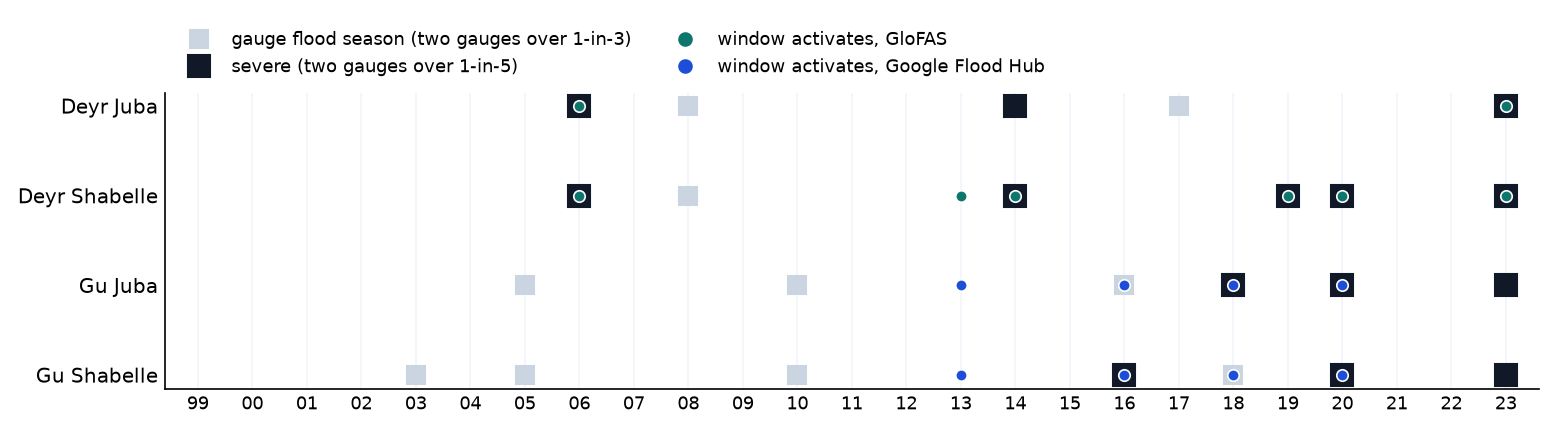
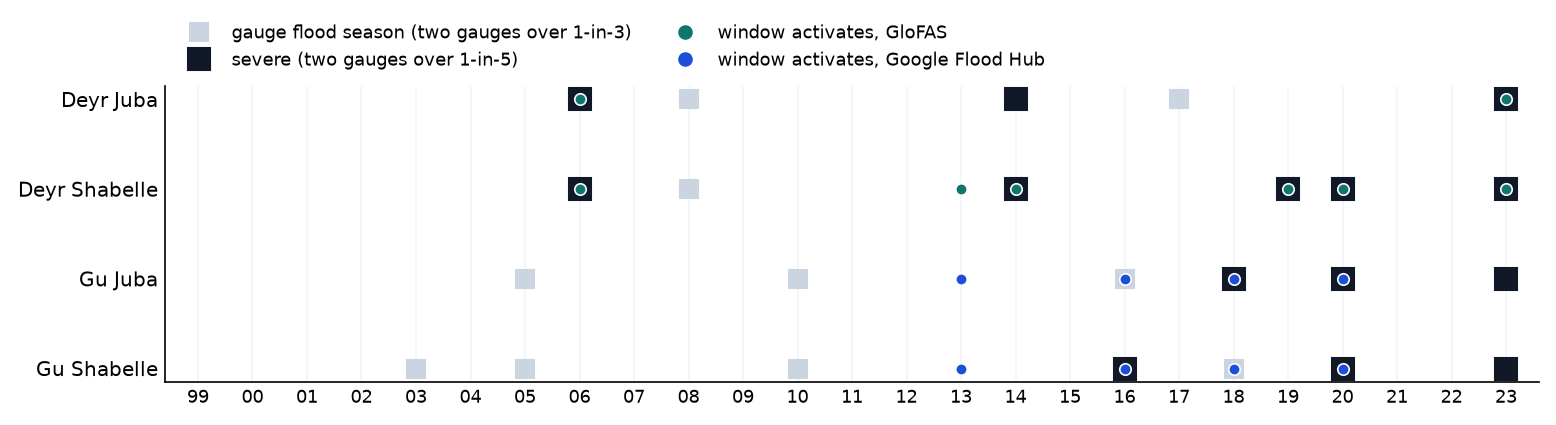
Summary page: even borders on the figures, more room around them
The agreement figure's legend was flush with the top edge; all three figures are now
saved with a tight bounding box and the same padding, and the page gives figures
22px above and 26px below.

diff --git a/pages/trigger-single-model/summary.html b/pages/trigger-single-model/summary.html
@@ -16,7 +16,7 @@ th{text-align:left;font-weight:600;color:var(--muted);border-bottom:2px solid va
 td{padding:7px 8px;border-bottom:1px solid var(--rule);vertical-align:top}
 td.n,th.n{text-align:right;font-variant-numeric:tabular-nums} td.pick{font-weight:700}
 tr.sev td:first-child{font-weight:700}
-figure{margin:14px 0} figure img{max-width:100%;display:block} figcaption{color:var(--muted);font-size:13px;margin-top:6px;max-width:840px}
+figure{margin:22px 0 26px} figure img{max-width:100%;display:block} figcaption{color:var(--muted);font-size:13px;margin-top:8px;max-width:840px}
 .pill{display:inline-block;padding:2px 8px;border-radius:999px;font-size:12.5px;font-weight:600;white-space:nowrap}
 .before{background:var(--okbg);color:var(--ok)} .same,.after{background:var(--latebg);color:var(--late)} .never{background:var(--missbg);color:var(--miss)} .na{background:var(--nabg);color:var(--na)}
 .who{color:var(--muted);font-size:12px;display:block}

diff --git a/scripts/page_additions/summary_page.py b/scripts/page_additions/summary_page.py
@@ -237,7 +237,7 @@ def fig_agreement():
     handles = [Line2D([], [], marker="o", ls="none", color=COL[m], label=("Google Flood Hub" if m == "google_grrr" else "GloFAS")) for m in ("google_grrr", "glofas_v5")]
     handles.append(Line2D([], [], marker="o", ls="none", color="white", mec="#111827", mew=1.6, ms=9, label="ringed: the source the window runs on"))
     fig.legend(handles=handles, loc="lower left", frameon=False, ncol=3, bbox_to_anchor=(0.01, 0.93), fontsize=8.6)
-    fig.tight_layout(rect=(0, 0, 1, 0.93)); fig.savefig(FIGS / "s_agreement.png", dpi=150); plt.close(fig)
+    fig.tight_layout(rect=(0, 0, 1, 0.93)); fig.savefig(FIGS / "s_agreement.png", dpi=150, bbox_inches="tight", pad_inches=0.12); plt.close(fig)
 
 
 def fig_activations():
@@ -258,7 +258,7 @@ def fig_activations():
                        Line2D([], [], marker="o", ls="none", color=COL["glofas_v5"], label="window activates, GloFAS"),
                        Line2D([], [], marker="o", ls="none", color=COL["google_grrr"], label="window activates, Google Flood Hub")],
               loc="lower left", frameon=False, ncol=2, bbox_to_anchor=(0, 1.0), fontsize=8.6, columnspacing=2.0)
-    fig.tight_layout(); fig.savefig(FIGS / "s_activations.png", dpi=150); plt.close(fig)
+    fig.tight_layout(); fig.savefig(FIGS / "s_activations.png", dpi=150, bbox_inches="tight", pad_inches=0.12); plt.close(fig)
 
 
 def fig_leads():
@@ -291,7 +291,7 @@ def fig_leads():
                        Line2D([], [], marker="|", ls="none", color="#6b7280", ms=9, mew=1.3, alpha=.6, label="every later issue that also met the rule"),
                        Line2D([], [], marker="x", ls="none", color="#6b7280", mew=1.6, label="never crossed (shown at right edge)")],
               loc="lower left", frameon=False, ncol=2, bbox_to_anchor=(0, 1.02), fontsize=8.6)
-    fig.tight_layout(); fig.savefig(FIGS / "s_leads.png", dpi=150); plt.close(fig)
+    fig.tight_layout(); fig.savefig(FIGS / "s_leads.png", dpi=150, bbox_inches="tight", pad_inches=0.12); plt.close(fig)
 
 
 fig_agreement(); fig_activations(); fig_leads()
@@ -314,7 +314,7 @@ th{text-align:left;font-weight:600;color:var(--muted);border-bottom:2px solid va
 td{padding:7px 8px;border-bottom:1px solid var(--rule);vertical-align:top}
 td.n,th.n{text-align:right;font-variant-numeric:tabular-nums} td.pick{font-weight:700}
 tr.sev td:first-child{font-weight:700}
-figure{margin:14px 0} figure img{max-width:100%;display:block} figcaption{color:var(--muted);font-size:13px;margin-top:6px;max-width:840px}
+figure{margin:22px 0 26px} figure img{max-width:100%;display:block} figcaption{color:var(--muted);font-size:13px;margin-top:8px;max-width:840px}
 .pill{display:inline-block;padding:2px 8px;border-radius:999px;font-size:12.5px;font-weight:600;white-space:nowrap}
 .before{background:var(--okbg);color:var(--ok)} .same,.after{background:var(--latebg);color:var(--late)} .never{background:var(--missbg);color:var(--miss)} .na{background:var(--nabg);color:var(--na)}
 .who{color:var(--muted);font-size:12px;display:block}
